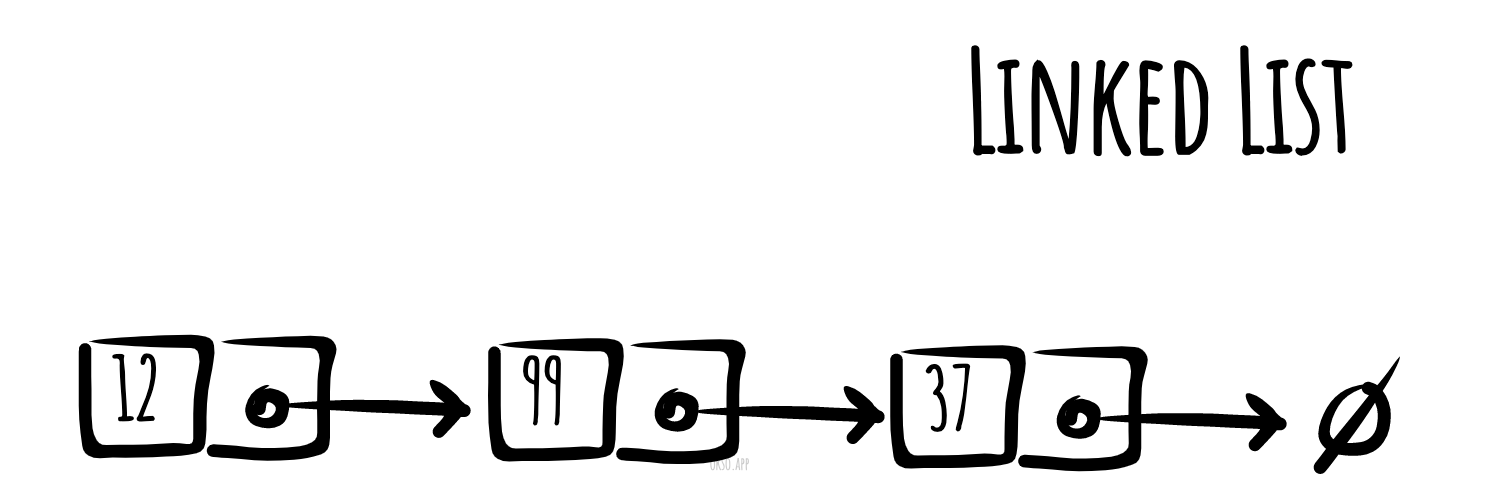
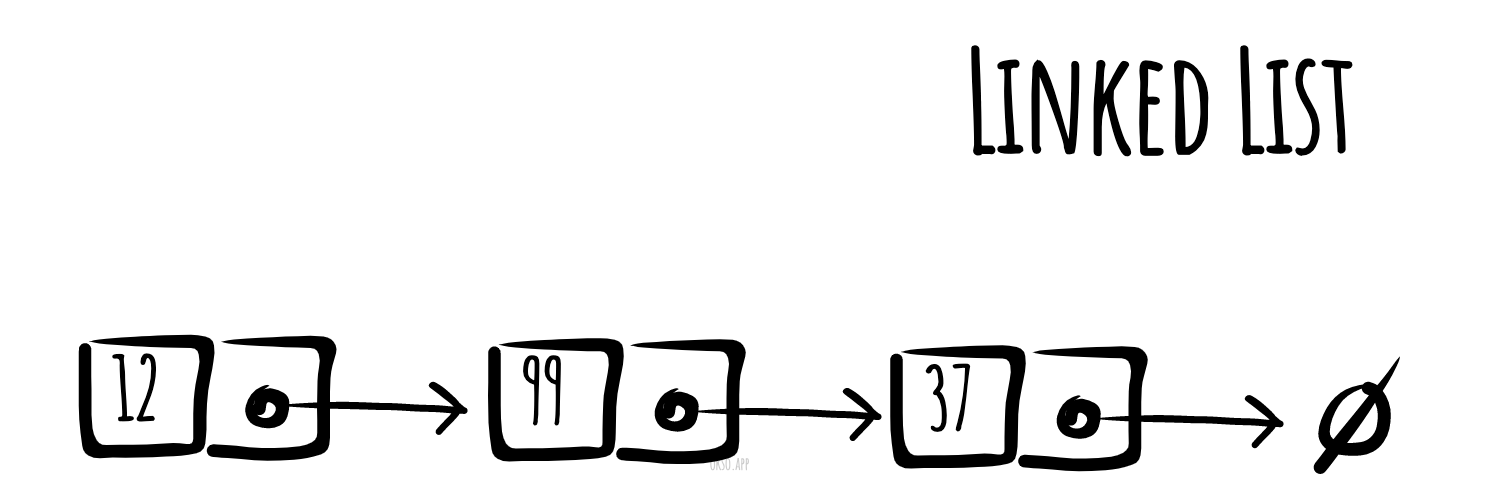
Update Doubly Linked List image.

Changed region(s): [[0.2147, 0.75, 0.3373, 0.87], [0.7667, 0.78, 0.8587, 0.9], [0.46, 0.78, 0.5827, 0.9]]

diff --git a/src/data-structures/doubly-linked-list/README.ja-JP.md b/src/data-structures/doubly-linked-list/README.ja-JP.md
@@ -2,7 +2,9 @@
 
 コンピュータサイエンスにおいて、**双方向リスト**はノードと呼ばれる一連のリンクレコードからなる連結データ構造です。各ノードはリンクと呼ばれる2つのフィールドを持っていて、これらは一連のノード内における前のノードと次のノードを参照しています。最初のノードの前のリンクと最後のノードの次のリンクはある種の終端を示していて、一般的にはダミーノードやnullが格納され、リストのトラバースを容易に行えるようにしています。もしダミーノードが1つしかない場合、リストはその1つのノードを介して循環的にリンクされます。これは、それぞれ逆の順番の単方向のリンクリストが2つあるものとして考えることができます。
 
-![Doubly Linked List](https://upload.wikimedia.org/wikipedia/commons/5/5e/Doubly-linked-list.svg)
+![Doubly Linked List](./images/doubly-linked-list.jpeg)
+
+*Made with [okso.app](https://okso.app)*
 
 2つのリンクにより、リストをどちらの方向にもトラバースすることができます。双方向リストはノードの追加や削除の際に、片方向リンクリストと比べてより多くのリンクを変更する必要があります。しかし、その操作は簡単で、より効率的な(最初のノード以外の場合)可能性があります。前のノードのリンクを更新する際に前のノードを保持したり、前のノードを見つけるためにリストをトラバースする必要がありません。
 
@@ -25,7 +27,7 @@ Add(value)
   end if
 end Add
 ```
-    
+
 ### 削除
 
 ```text
@@ -62,7 +64,7 @@ Remove(head, value)
   return false
 end Remove
 ```
-    
+
 ### 逆トラバース
 
 ```text
@@ -76,7 +78,7 @@ ReverseTraversal(tail)
   end while
 end Reverse Traversal
 ```
-    
+
 ## 計算量
 
 ## 時間計算量

diff --git a/src/data-structures/doubly-linked-list/README.ru-RU.md b/src/data-structures/doubly-linked-list/README.ru-RU.md
@@ -10,14 +10,16 @@
 Двусвязный список можно представить, как два связных списка, которые образованы из
 одних и тех же данных, но расположенных в противоположном порядке.
 
-![Двусвязный список](https://upload.wikimedia.org/wikipedia/commons/5/5e/Doubly-linked-list.svg)
+![Двусвязный список](./images/doubly-linked-list.jpeg)
+
+*Made with [okso.app](https://okso.app)*
 
 Две ссылки позволяют обходить список в обоих направлениях. Добавление и
 удаление узла в двусвязном списке требует изменения большего количества ссылок,
 чем аналогичные операции в связном списке. Однако данные операции проще и потенциально
 более эффективны (для некорневых узлов) - при обходе не нужно следить за предыдущим
 узлом или повторно обходить список в поиске предыдущего узла, плюс его ссылка
-может быть изменена. 
+может быть изменена.
 
 ## Псевдокод основных операций
 
@@ -38,7 +40,7 @@ Add(value)
   end if
 end Add
 ```
-    
+
 ### Удаление
 
 ```text
@@ -75,7 +77,7 @@ Remove(head, value)
   return false
 end Remove
 ```
-    
+
 ### Обратный обход
 
 ```text
@@ -89,7 +91,7 @@ ReverseTraversal(tail)
   end while
 end Reverse Traversal
 ```
-    
+
 ## Сложность
 
 ## Временная сложность

diff --git a/src/data-structures/doubly-linked-list/README.es-ES.md b/src/data-structures/doubly-linked-list/README.es-ES.md
@@ -9,7 +9,9 @@ _Lea esto en otros idiomas:_
 
 En informática, una **lista doblemente enlazada** es una estructura de datos relacionados que consta de un conjunto de registros conectados secuencialmente llamados nodos. Cada nodo contiene dos campos, llamados enlaces, que son referencias al nodo anterior y al siguiente en la secuencia de nodos. Los enlaces anterior y siguiente de los nodos inicial y final, apuntan respectivamente a algún tipo de terminador (normalmente un nodo centinela o nulo), facilitando así el recorrido de la lista. Si solo hay un nodo nulo, la lista se enlaza circularmente a través este. Puede conceptualizarse como dos listas enlazadas individualmente formadas a partir de los mismos elementos de datos, pero en órdenes secuenciales opuestos.
 
-![Lista doblemente enlazada](https://upload.wikimedia.org/wikipedia/commons/5/5e/Doubly-linked-list.svg)
+![Lista doblemente enlazada](./images/doubly-linked-list.jpeg)
+
+*Made with [okso.app](https://okso.app)*
 
 Los dos enlaces de un nodo permiten recorrer la lista en cualquier dirección. Si bien agregar o eliminar un nodo en una lista doblemente enlazada requiere cambiar más enlaces que las mismas operaciones en una lista enlazada individualmente, las operaciones son más simples y potencialmente más eficientes (para nodos que no sean los primeros) porque no hay necesidad de realizar un seguimiento del nodo anterior durante el recorrido o no es necesario recorrer la lista para encontrar el nodo anterior, de modo que se pueda modificar su enlace.
 

diff --git a/src/data-structures/doubly-linked-list/README.ko-KR.md b/src/data-structures/doubly-linked-list/README.ko-KR.md
@@ -12,7 +12,9 @@ _Read this in other languages:_
 센티넬 노드가 하나만 있으면, 목록이 센티넬 노드를 통해서 원형으로 연결됩니다.
 동일한 데이터 항목으로 구성되어 있지만, 반대 순서로 두 개의 단일 연결 리스트로 개념화 할 수 있습니다.
 
-![이중 연결 리스트](https://upload.wikimedia.org/wikipedia/commons/5/5e/Doubly-linked-list.svg)
+![이중 연결 리스트](./images/doubly-linked-list.jpeg)
+
+*Made with [okso.app](https://okso.app)*
 
 두 개의 노드 링크를 사용하면 어느 방향으로든 리스트를 순회할 수 있습니다.
 이중 연결 리스트에서 노드를 추가하거나 제거하려면, 단일 연결 리스트에서 동일한 작업보다 더 많은 링크를 변경해야 하지만, 첫 번째 노드 이외의 노드인 경우 작업을 추적할 필요가 없으므로 작업이 더 단순해져 잠재적으로 더 효율적입니다.
@@ -37,7 +39,7 @@ Add(value)
   end if
 end Add
 ```
-    
+
 ### 삭제
 
 ```text
@@ -74,7 +76,7 @@ Remove(head, value)
   return false
 end Remove
 ```
-    
+
 ### 역순회
 
 ```text
@@ -88,7 +90,7 @@ ReverseTraversal(tail)
   end while
 end Reverse Traversal
 ```
-    
+
 ## 복잡도
 
 ## 시간 복잡도

diff --git a/src/data-structures/doubly-linked-list/README.zh-CN.md b/src/data-structures/doubly-linked-list/README.zh-CN.md
@@ -2,7 +2,9 @@
 
 在计算机科学中, 一个 **双向链表(doubly linked list)** 是由一组称为节点的顺序链接记录组成的链接数据结构。每个节点包含两个字段，称为链接，它们是对节点序列中上一个节点和下一个节点的引用。开始节点和结束节点的上一个链接和下一个链接分别指向某种终止节点，通常是前哨节点或null，以方便遍历列表。如果只有一个前哨节点，则列表通过前哨节点循环链接。它可以被概念化为两个由相同数据项组成的单链表，但顺序相反。
 
-![Doubly Linked List](https://upload.wikimedia.org/wikipedia/commons/5/5e/Doubly-linked-list.svg)
+![Doubly Linked List](./images/doubly-linked-list.jpeg)
+
+*Made with [okso.app](https://okso.app)*
 
 两个节点链接允许在任一方向上遍历列表。
 
@@ -29,7 +31,7 @@ Add(value)
   end if
 end Add
 ```
-    
+
 ### 删除
 
 ```text
@@ -66,7 +68,7 @@ Remove(head, value)
   return false
 end Remove
 ```
-    
+
 ### 反向遍历
 
 ```text
@@ -80,7 +82,7 @@ ReverseTraversal(tail)
   end while
 end Reverse Traversal
 ```
-    
+
 ## 复杂度
 
 ## 时间复杂度

diff --git a/src/data-structures/doubly-linked-list/README.pt-BR.md b/src/data-structures/doubly-linked-list/README.pt-BR.md
@@ -11,7 +11,9 @@ somente um nó sentinela, então a lista é ligada circularmente através do nó
 sentinela. Ela pode ser conceitualizada como duas listas individualmente ligadas
 e formadas a partir dos mesmos itens, mas em ordem sequencial opostas.
 
-![Doubly Linked List](https://upload.wikimedia.org/wikipedia/commons/5/5e/Doubly-linked-list.svg)
+![Doubly Linked List](./images/doubly-linked-list.jpeg)
+
+*Made with [okso.app](https://okso.app)*
 
 Os dois nós ligados permitem a travessia da lista em qualquer direção.
 Enquanto adicionar ou remover um nó de uma lista duplamente vinculada requer
@@ -41,7 +43,7 @@ Add(value)
   end if
 end Add
 ```
-    
+
 ### Deletar
 
 ```text
@@ -78,7 +80,7 @@ Remove(head, value)
   return false
 end Remove
 ```
-    
+
 ### Travessia reversa
 
 ```text
@@ -92,7 +94,7 @@ ReverseTraversal(tail)
   end while
 end Reverse Traversal
 ```
-    
+
 ## Complexidades
 
 ## Complexidade de Tempo

diff --git a/src/data-structures/doubly-linked-list/README.md b/src/data-structures/doubly-linked-list/README.md
@@ -18,7 +18,9 @@ sentinel node, then the list is circularly linked via the sentinel node. It can
 be conceptualized as two singly linked lists formed from the same data items,
 but in opposite sequential orders.
 
-![Doubly Linked List](https://upload.wikimedia.org/wikipedia/commons/5/5e/Doubly-linked-list.svg)
+![Doubly Linked List](./images/doubly-linked-list.jpeg)
+
+*Made with [okso.app](https://okso.app)*
 
 The two node links allow traversal of the list in either direction. While adding
 or removing a node in a doubly linked list requires changing more links than the
